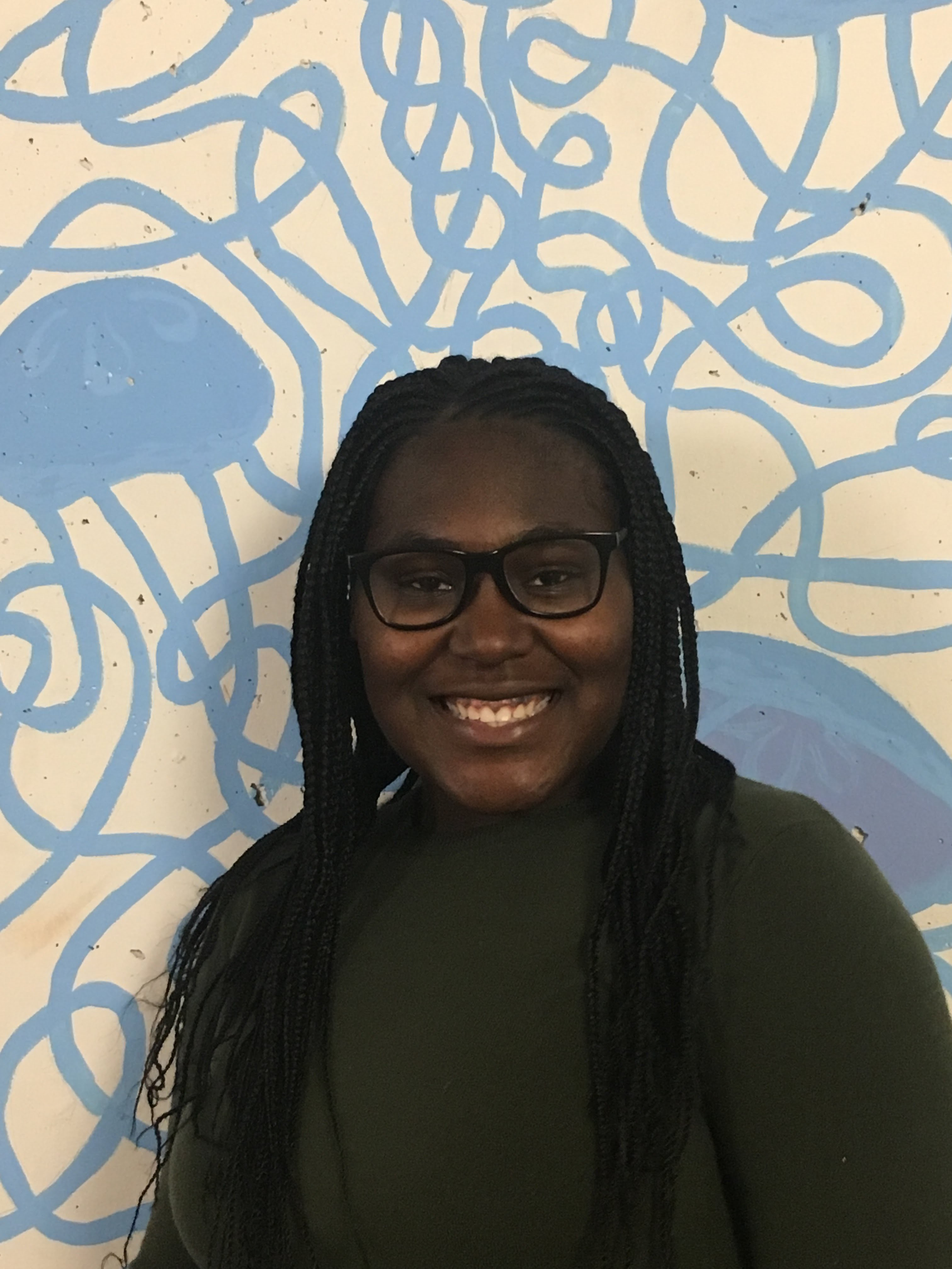
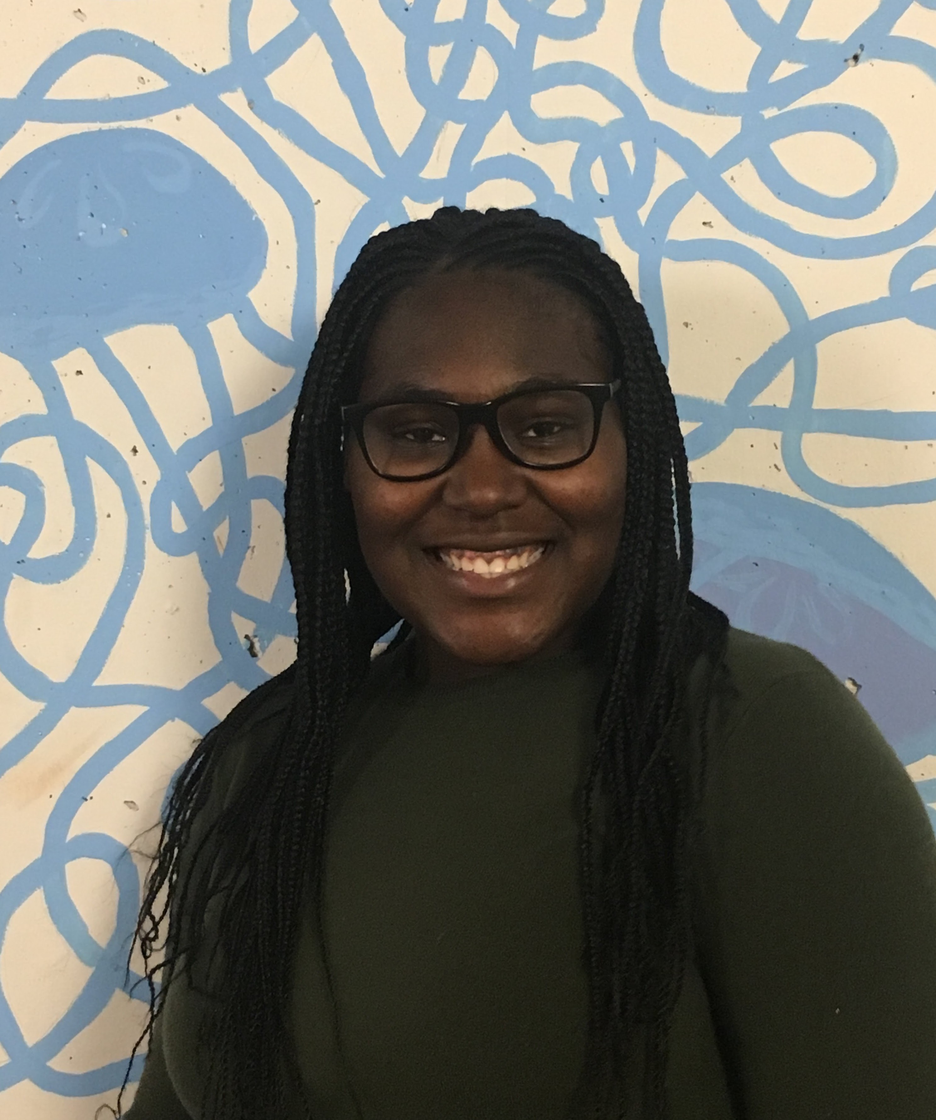
images look good now

diff --git a/index.html b/index.html
@@ -179,6 +179,8 @@
 <!-- Things -->
 <div class="container-fluid bg-2 text-center" id="committee">
   <h3>The Committee</h3>
+  <br>
+  <br>
   <div class="photos photos-committee">
     <div class="col-md-2"></div>
     <div class="col-md-10 col-md-offset-1">
@@ -189,7 +191,7 @@
         </div>
         <div class="col-md-4 container">
           <img src="photos/ihssan.jpg"  class="img-circle">
-          <div class="overlay"><div class="text"><b>Ihssan Tinawi</b><br>Course 6, 14-1</div></div>
+          <div class="overlay"><div class="text"><b>Ihssan Tinawi</b><br>Course 6-3, 14-1</div></div>
         </div>
         <div class="col-md-4 container">
           <img src="photos/joshua.jpg" class="img-circle">
@@ -207,7 +209,7 @@
           <div class="overlay"><div class="text"><b>Chantal Acacio</b><br>Course 15</div></div>
         </div>
         <div class="col-md-4 container">
-          <img src="photos/kristina.jpg" style="width:300;height:300px;" class="img-circle">
+          <img src="photos/kristina.jpg" class="img-circle">
           <div class="overlay"><div class="text"><b>Kristina Hill</b><br>Course 2</div></div>
         </div>
         <div class="col-md-4 container">
@@ -221,7 +223,7 @@
 <!-- End of things -->
 
 <footer class="container-fluid bg-4 text-center" id="contact">
-  Questions? Please reach out to <a href="mailto:seniorball2018@mit.edu" target="_top">the committee</a> and we'd be happy to help.
+  Questions? Please <a href="mailto:seniorball2018@mit.edu" target="_top">email us</a> and we'd be happy to help.
   <h5>&copy; Made by Senior Ball Committee '18</h5>
 </footer>
 
